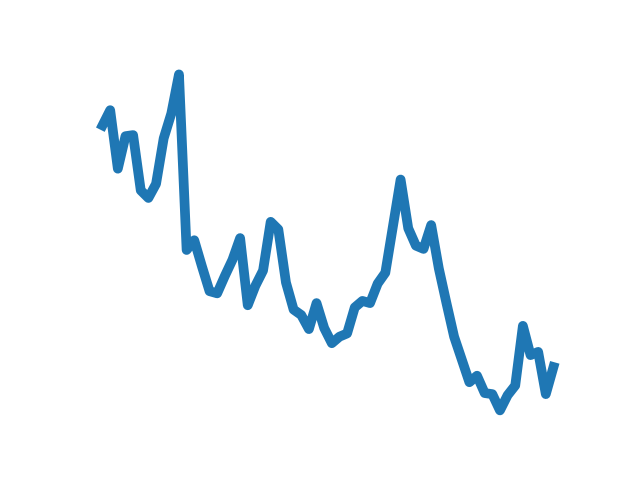
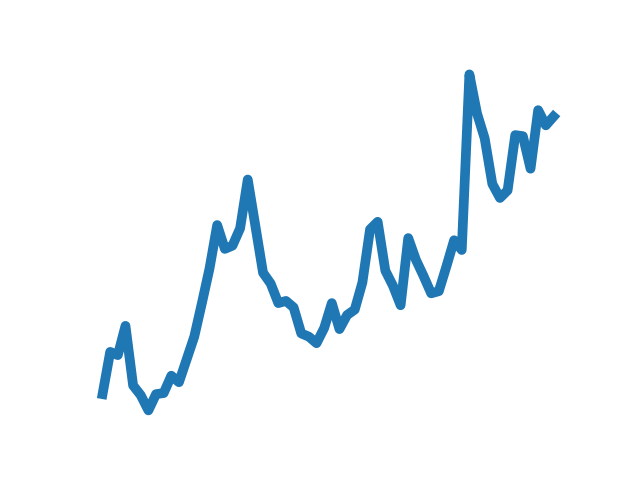
cm181220

Changed region(s): [[0.1562, 0.125, 0.875, 0.875]]

diff --git a/maker.py b/maker.py
@@ -36,12 +36,14 @@ for i in range(0, len(bors), 1):
        n = script.index(sym[i])
        ISIN.append(isin[n])
        imagepath.append('https://github.com/lokeshbamb18/StockScreener/raw/main/sparklines/'+sym[i]+'.png')
-       cp = comp['CLOSE'][:60]
+       cp = list(comp['CLOSE'][:60])
+       cp.reverse()
        plt.plot(cp, linewidth = 7.0)
        plt.axis('off')
        plt.savefig('/home/lokesh/ML/Android/sparklines/' + sym[i])
        plt.clf()
               
+print(cp)
 output['Signal'] = bs
 output['Script'] = company
 output['Previous Close'] = close
